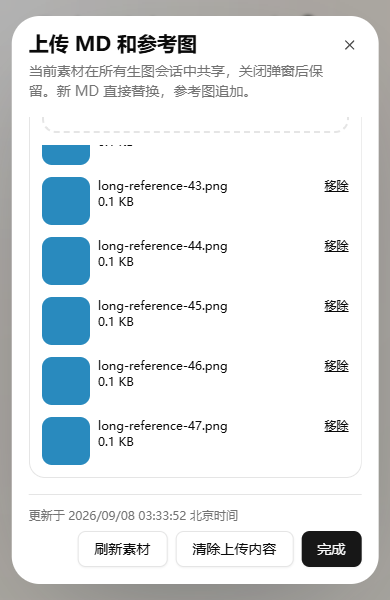
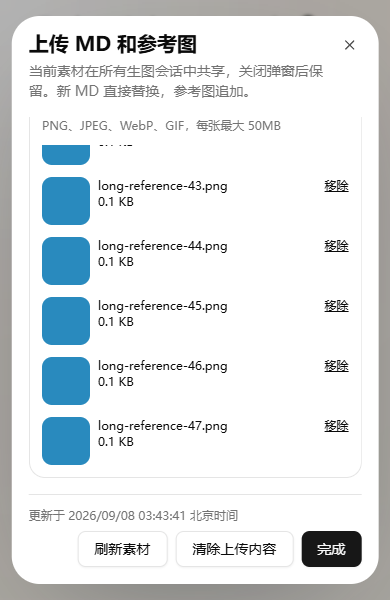
fix: bind import uploads to their initiating identity

diff --git a/web/src/app/image/components/image-import-dialog.tsx b/web/src/app/image/components/image-import-dialog.tsx
@@ -5,12 +5,12 @@ import { Dialog, DialogContent, DialogDescription, DialogFooter, DialogHeader, D
 import { Button } from "@/components/ui/button";
 import { ImageLightbox } from "@/components/image-lightbox";
 import { formatBeijingDateTime } from "@/lib/business-time";
-import { cleanupImageImports, fetchImageImports, reserveImportReference, uploadImportFile, type ImageImports, type ImportCleanup, type ImportMutation } from "@/store/image-imports";
+import { cleanupImageImports, fetchImageImports, ImportIdentityChanged, reserveImportReference, uploadImportFile, type ImageImports, type ImportCleanup, type ImportMutation } from "@/store/image-imports";
 import { ReferenceThumbnail } from "./reference-thumbnail";
 
 type Upload = { file: File; mutation: ImportMutation; url: string; progress: number; busy: boolean; error?: string; cancelled?: boolean };
 
-export function ImageImportDialog({ open, onOpenChange }: { open: boolean; onOpenChange: (open: boolean) => void }) {
+export function ImageImportDialog({ open, onOpenChange, authKey }: { open: boolean; onOpenChange: (open: boolean) => void; authKey: string }) {
   const [materials, setMaterials] = useState<ImageImports | null>(null);
   const current = useRef<ImageImports | null>(null);
   const [uploads, setUploads] = useState<Record<string, Upload>>({});
@@ -26,15 +26,33 @@ export function ImageImportDialog({ open, onOpenChange }: { open: boolean; onOpe
   const transfers = useRef(Array.from({ length: 4 }, () => Promise.resolve()));
   const nextTransfer = useRef(0);
   const mounted = useRef(true);
+  const identityChanged = useRef(false);
+  const errorMessage = useCallback((reason: unknown) => {
+    if (reason instanceof ImportIdentityChanged) {
+      identityChanged.current = true;
+      current.current = null;
+      for (const item of Object.values(uploadsRef.current)) URL.revokeObjectURL(item.url);
+      uploadsRef.current = {};
+      setMaterials(null);
+      setUploads({});
+      setMdUpload(null);
+      setFailedCleanup(null);
+      setPreview(null);
+      setError(reason.message);
+    }
+    return (reason as Error).message;
+  }, []);
   const accept = useCallback((next: ImageImports) => {
-    if (mounted.current && (!current.current || next.revision >= current.current.revision)) {
+    if (mounted.current && !identityChanged.current && (!current.current || next.revision >= current.current.revision)) {
       current.current = next;
       setMaterials(next);
     }
   }, []);
-  const refresh = useCallback(async () => accept(await fetchImageImports()), [accept]);
+  const refresh = useCallback(async () => accept(await fetchImageImports(authKey)), [accept, authKey]);
   function enqueue(operation: () => Promise<void>) {
-    const next = queue.current.catch(() => {}).then(operation);
+    const next = queue.current.catch(() => {}).then(async () => {
+      if (mounted.current && !identityChanged.current) await operation();
+    });
     queue.current = next;
     void next.catch(() => {});
     return next;
@@ -56,19 +74,19 @@ export function ImageImportDialog({ open, onOpenChange }: { open: boolean; onOpe
     };
   }, []);
   useEffect(() => {
-    if (open) void refresh().catch((reason: Error) => setError(reason.message));
-  }, [open, refresh]);
+    if (open) void refresh().catch((reason: Error) => setError(errorMessage(reason)));
+  }, [open, refresh, errorMessage]);
 
   async function sendReference(item: Upload) {
     const id = item.mutation.request_id;
-    if (!uploadsRef.current[id] || uploadsRef.current[id].cancelled) return;
+    if (!mounted.current || identityChanged.current || !uploadsRef.current[id] || uploadsRef.current[id].cancelled) return;
     updateUpload(id, { busy: true, error: undefined });
     try {
-      const result = await uploadImportFile(item.file, "reference", item.mutation, (progress) => updateUpload(id, { progress }));
+      const result = await uploadImportFile(authKey, item.file, "reference", item.mutation, (progress) => updateUpload(id, { progress }));
       accept(result);
       if (!uploadsRef.current[id]?.cancelled) updateUpload(id, null);
     } catch (reason) {
-      if (!uploadsRef.current[id]?.cancelled) updateUpload(id, { busy: false, error: (reason as Error).message });
+      if (!uploadsRef.current[id]?.cancelled) updateUpload(id, { busy: false, error: errorMessage(reason) });
     }
   }
   function scheduleReference(item: Upload) {
@@ -85,11 +103,11 @@ export function ImageImportDialog({ open, onOpenChange }: { open: boolean; onOpe
       if (uploadsRef.current[id]?.cancelled) return;
       try {
         item.mutation.version = current.current!.version;
-        accept(await reserveImportReference(item.file, item.mutation));
+        accept(await reserveImportReference(authKey, item.file, item.mutation));
         // Registration is ordered; file transfers may finish while further files are registered.
         scheduleReference(item);
       } catch (reason) {
-        updateUpload(id, { busy: false, error: (reason as Error).message });
+        updateUpload(id, { busy: false, error: errorMessage(reason) });
       }
     });
   }
@@ -97,10 +115,10 @@ export function ImageImportDialog({ open, onOpenChange }: { open: boolean; onOpe
     updateUpload(item.mutation.request_id, { busy: true, error: undefined });
     void enqueue(async () => {
       try {
-        accept(await reserveImportReference(item.file, item.mutation));
+        accept(await reserveImportReference(authKey, item.file, item.mutation));
         scheduleReference(item);
       } catch (reason) {
-        updateUpload(item.mutation.request_id, { busy: false, error: (reason as Error).message });
+        updateUpload(item.mutation.request_id, { busy: false, error: errorMessage(reason) });
       }
     });
   }
@@ -115,10 +133,11 @@ export function ImageImportDialog({ open, onOpenChange }: { open: boolean; onOpe
     void enqueue(async () => {
       try {
         if (fresh) item.mutation.version = current.current!.version;
-        accept(await uploadImportFile(item.file, "md", item.mutation, (progress) => setMdUpload({ ...item, progress, busy: true })));
+        accept(await uploadImportFile(authKey, item.file, "md", item.mutation, (progress) => setMdUpload({ ...item, progress, busy: true })));
         setMdUpload(null);
       } catch (reason) {
-        setMdUpload({ ...item, busy: false, error: (reason as Error).message });
+        const message = errorMessage(reason);
+        if (!identityChanged.current) setMdUpload({ ...item, busy: false, error: message });
       }
     });
   }
@@ -130,14 +149,14 @@ export function ImageImportDialog({ open, onOpenChange }: { open: boolean; onOpe
     void enqueue(async () => {
       const operation = retry ?? { request_id: crypto.randomUUID(), version: current.current!.version, upload_ids: ids, clear };
       try {
-        accept(await cleanupImageImports(operation));
+        accept(await cleanupImageImports(authKey, operation));
         for (const id of ids) updateUpload(id, null);
         if (clear) setMdUpload(null);
         setFailedCleanup(null);
       } catch (reason) {
-        setError((reason as Error).message);
-        setFailedCleanup(operation);
-        await refresh().catch(() => {});
+        setError(errorMessage(reason));
+        if (!identityChanged.current) setFailedCleanup(operation);
+        await refresh().catch(errorMessage);
       } finally { setBusy(false); }
     });
   }
@@ -158,7 +177,7 @@ export function ImageImportDialog({ open, onOpenChange }: { open: boolean; onOpe
       <div className="min-h-0 overflow-y-auto overscroll-contain">
         {error && <p role="alert" className="mb-3 break-words text-sm text-rose-600">{error}</p>}
         {busy && <p role="status" className="mb-3 text-sm">正在清理当前素材…</p>}
-        {!materials && <p role="status">正在读取当前素材…</p>}
+        {!materials && !identityChanged.current && <p role="status">正在读取当前素材…</p>}
         <div className="grid min-w-0 grid-cols-1 gap-4 sm:grid-cols-2">
           <section className="min-w-0 rounded-2xl border p-3">
             <h3 className="mb-2 font-medium">MD 文件</h3>
@@ -204,7 +223,7 @@ export function ImageImportDialog({ open, onOpenChange }: { open: boolean; onOpe
       </div>
       <DialogFooter className="shrink-0 flex-row flex-wrap items-center justify-end gap-2 border-t pt-3">
         <span className="basis-full text-xs text-muted-foreground sm:mr-auto sm:basis-auto">{materials?.updated_at ? `更新于 ${formatBeijingDateTime(materials.updated_at)}` : "尚未导入素材"}</span>
-        <Button variant="outline" disabled={busy} onClick={() => { setError(""); setFailedCleanup(null); void refresh().catch((reason: Error) => setError(reason.message)); }}>刷新素材</Button>
+        <Button variant="outline" disabled={busy} onClick={() => { setError(""); setFailedCleanup(null); void refresh().catch((reason: Error) => setError(errorMessage(reason))); }}>刷新素材</Button>
         {pending && <Button variant="outline" disabled={busy} onClick={() => cleanup(pending.clear, pending.upload_ids[0], pending)}>重试清理</Button>}
         <Button variant="outline" disabled={blocked} onClick={() => cleanup(true)}>清除上传内容</Button>
         <Button onClick={() => onOpenChange(false)}>完成</Button>

diff --git a/web/src/store/image-imports.ts b/web/src/store/image-imports.ts
@@ -2,6 +2,8 @@
 
 import { httpRequest, request } from "@/lib/request";
 import type { StoredReferenceImage } from "@/store/image-conversations";
+import { getStoredAuthKey } from "@/store/auth";
+import type { AxiosProgressEvent } from "axios";
 
 export type ImportReference = {
   request_id: string;
@@ -21,27 +23,39 @@ export type ImageImports = {
   updated_at: string | null;
 };
 
-export const fetchImageImports = () => httpRequest<ImageImports>("/api/image-imports");
-export const reserveImportReference = (file: File, mutation: ImportMutation) =>
+export class ImportIdentityChanged extends Error {
+  constructor() { super("登录身份已变更，请刷新页面后继续"); }
+}
+
+async function importAuth(authKey: string) {
+  if (!authKey || await getStoredAuthKey() !== authKey) throw new ImportIdentityChanged();
+  // Bind the validated key even if another tab logs in between this check and dispatch.
+  return { headers: { Authorization: `Bearer ${authKey}` }, redirectOnUnauthorized: false };
+}
+
+export const fetchImageImports = async (authKey: string) => httpRequest<ImageImports>("/api/image-imports", await importAuth(authKey));
+export const reserveImportReference = async (authKey: string, file: File, mutation: ImportMutation) =>
   httpRequest<ImageImports>("/api/image-imports/references", {
-    method: "POST", body: { ...mutation, name: file.name, size: file.size },
+    ...await importAuth(authKey), method: "POST", body: { ...mutation, name: file.name, size: file.size },
   });
 
-export async function uploadImportFile(file: File, kind: "md" | "reference", mutation: ImportMutation, progress: (value: number) => void) {
+export async function uploadImportFile(authKey: string, file: File, kind: "md" | "reference", mutation: ImportMutation, progress: (value: number) => void) {
   const body = new FormData();
   body.append("file", file);
   if (kind === "md") {
     body.append("request_id", mutation.request_id);
     body.append("version", String(mutation.version));
   }
-  return (await request.put<ImageImports>(kind === "md" ? "/api/image-imports/md" : `/api/image-imports/references/${encodeURIComponent(mutation.request_id)}`, body, {
-    onUploadProgress: (event) => progress(Math.round(100 * event.loaded / (event.total || file.size || 1))),
-  })).data;
+  const config = {
+    ...await importAuth(authKey),
+    onUploadProgress: (event: AxiosProgressEvent) => progress(Math.round(100 * event.loaded / (event.total || file.size || 1))),
+  };
+  return (await request.put<ImageImports>(kind === "md" ? "/api/image-imports/md" : `/api/image-imports/references/${encodeURIComponent(mutation.request_id)}`, body, config)).data;
 }
 
-export function cleanupImageImports(cleanup: ImportCleanup) {
+export async function cleanupImageImports(authKey: string, cleanup: ImportCleanup) {
   const { clear, upload_ids, ...mutation } = cleanup;
   return httpRequest<ImageImports>(clear ? "/api/image-imports" : `/api/image-imports/references/${encodeURIComponent(upload_ids[0])}`, {
-    method: "DELETE", body: clear ? { ...mutation, upload_ids } : mutation,
+    ...await importAuth(authKey), method: "DELETE", body: clear ? { ...mutation, upload_ids } : mutation,
   });
 }

diff --git a/web/src/app/image/page.tsx b/web/src/app/image/page.tsx
@@ -152,7 +152,7 @@ function sortImageConversations(conversations: ImageConversation[]) {
   return [...conversations].sort((a, b) => b.updatedAt.localeCompare(a.updatedAt));
 }
 
-function ImagePageContent({ isAdmin }: { isAdmin: boolean }) {
+function ImagePageContent({ isAdmin, authKey }: { isAdmin: boolean; authKey: string }) {
   const didLoadQuotaRef = useRef(false);
   const conversationsRef = useRef<ImageConversation[]>([]);
   const imageDimensionsRef = useRef(new Map<string, { width: number; height: number }>());
@@ -1072,7 +1072,7 @@ function ImagePageContent({ isAdmin }: { isAdmin: boolean }) {
 
   return (
     <>
-      <ImageImportDialog open={isImportsOpen} onOpenChange={setIsImportsOpen} />
+      <ImageImportDialog open={isImportsOpen} onOpenChange={setIsImportsOpen} authKey={authKey} />
       <section className="mx-auto grid h-[calc(100dvh-6.5rem)] min-h-0 w-full max-w-[1380px] grid-cols-1 gap-2 overflow-hidden px-0 pb-[calc(env(safe-area-inset-bottom)+0.5rem)] sm:h-[calc(100dvh-5.25rem)] sm:gap-3 sm:px-3 sm:pb-6 lg:grid-cols-[240px_minmax(0,1fr)]">
         <div className="hidden h-full min-h-0 border-r border-stone-200/70 pr-3 lg:block">
           <ImageSidebar
@@ -1280,5 +1280,5 @@ export default function ImagePage() {
     );
   }
 
-  return <ImagePageContent isAdmin={session.role === "admin"} />;
+  return <ImagePageContent key={session.subjectId} isAdmin={session.role === "admin"} authKey={session.key} />;
 }

diff --git a/test/test_image_imports_http.py b/test/test_image_imports_http.py
@@ -36,9 +36,9 @@ def test_references_append_merge_but_same_name_conflicts_and_clear_protects_snap
     assert first.status_code == 200, first.text
     reference = first.json()["references"][0]["reference"]
     assert upload(env).json()["references"][0]["reference"] == reference
-    assert upload(env, "ref-two", "second.png").status_code == 200
+    second = upload(env, "ref-two", "second.png").json()["references"][1]["reference"]
     assert env["client"].post(f'/api/image-references/{reference["id"]}/retain', headers=env["headers"]).status_code == 200
-    turn = submit(env, referenceImages=[{"id": reference["id"]}]).json()
+    turn = submit(env, referenceImages=[{"id": second["id"]}, {"id": reference["id"]}]).json()
     clear = {"request_id": "clear-one", "version": 2, "upload_ids": ["not-arrived"]}
     result = env["client"].request("DELETE", "/api/image-imports", headers=env["headers"], json=clear)
     assert result.status_code == 200, result.text
@@ -47,8 +47,9 @@ def test_references_append_merge_but_same_name_conflicts_and_clear_protects_snap
     assert reserve(env, "not-arrived", "late.png", 3).status_code == 409
     assert upload(env).status_code == 404
     assert env["client"].get(reference["url"], headers=env["headers"]).content == image_bytes()
+    assert env["client"].get(second["url"], headers=env["headers"]).content == image_bytes()
     assert env["client"].get("/api/image-references", headers=env["headers"]).json()["items"] == [reference]
-    assert env["client"].get(f'/api/image-conversations/{turn["id"]}', headers=env["headers"]).json()["turns"][0]["referenceImages"] == [reference]
+    assert env["client"].get(f'/api/image-conversations/{turn["id"]}', headers=env["headers"]).json()["turns"][0]["referenceImages"] == [second, reference]
     assert env["client"].request("DELETE", "/api/image-imports", headers=env["headers"], json=clear).json()["version"] == 3
 
 

diff --git a/services/image_import_service.py b/services/image_import_service.py
@@ -36,6 +36,7 @@ class ImageImportService:
         return {"version": 0, "revision": 0, "barrier": 0, "md": None, "references": [], "receipts": {}, "pending": None, "updated_at": None}
 
     def _write(self, identity, state):
+        # ponytail: O(n) current-metadata rewrite; use incremental rows for very large import sets.
         state["revision"] += 1
         state["updated_at"] = beijing_iso()
         write_json_atomic(self._path(identity), state)
